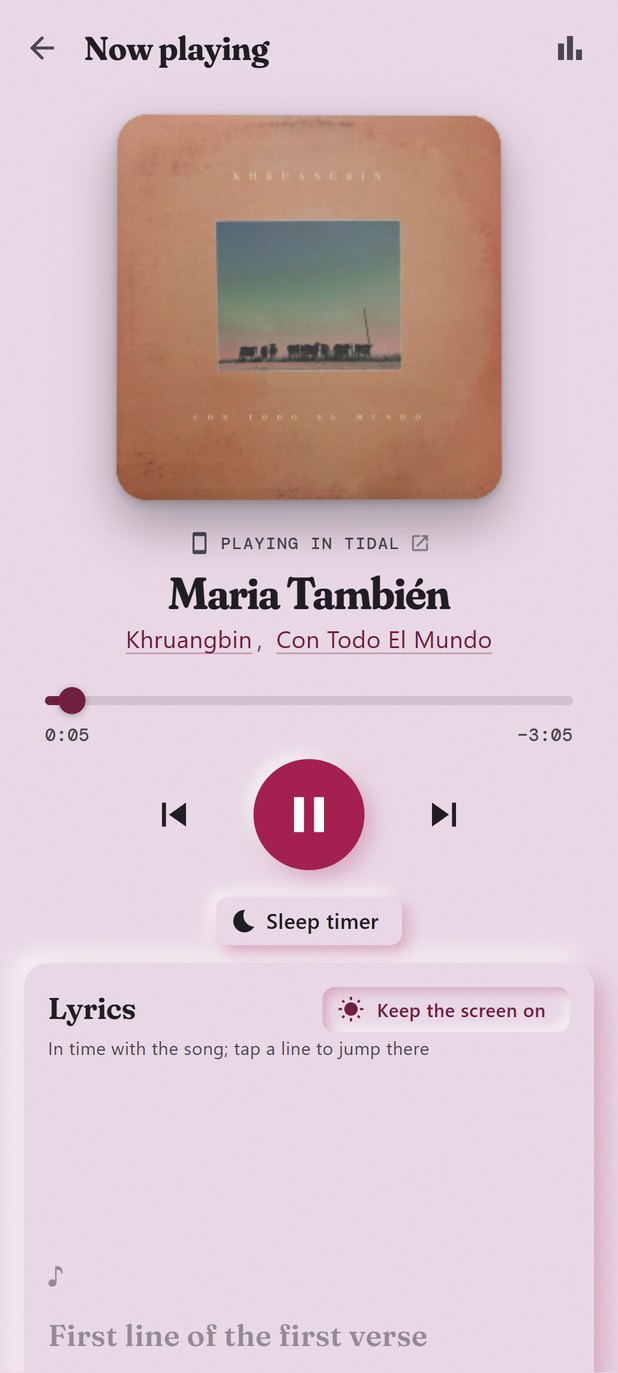
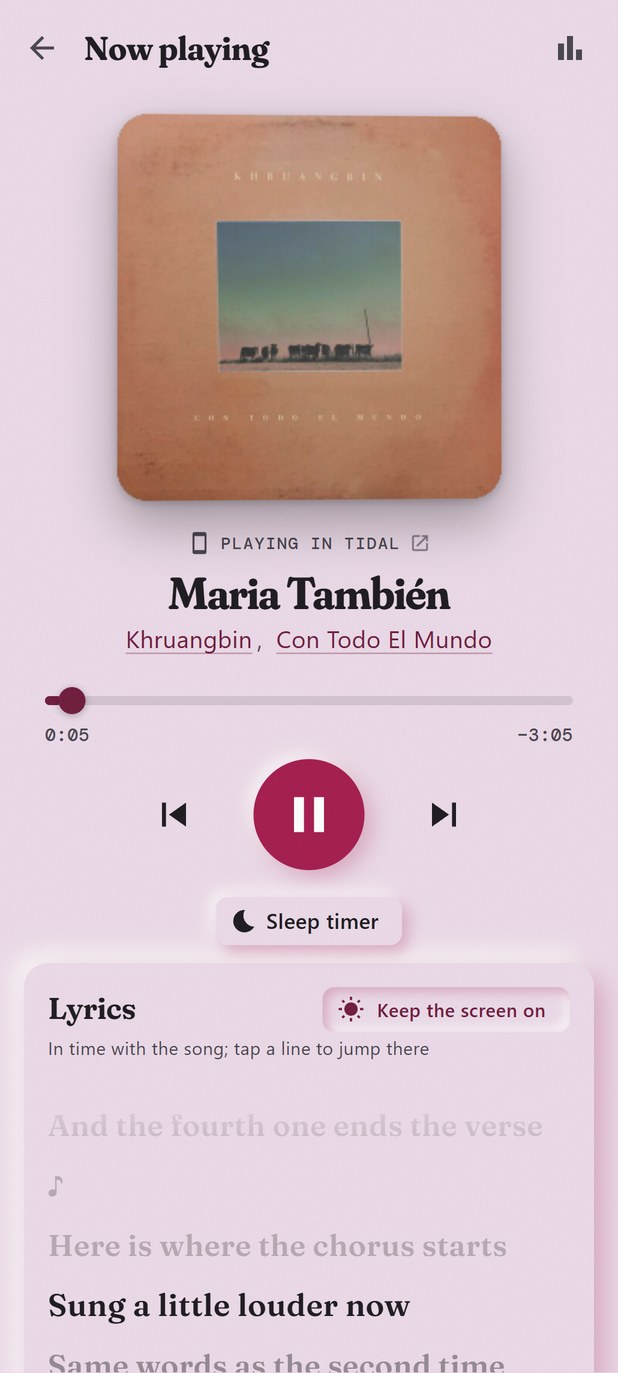
README screenshots with now playing in the bar and its lyrics
Every screenshot shows the bottom bar with the line being sung. The
banner shows a year as the river of artists (2025, where the top eight
make up more than half) in place of Your record, which goes.

Changed region(s): [[0.0615, 0.8871, 0.8301, 1.0], [0.5227, 0.8871, 0.8301, 0.9177], [0.2767, 0.8871, 0.4919, 0.9177]]

diff --git a/README.md b/README.md
@@ -2,7 +2,7 @@
 
 An Android app for your record shelf and everything else you listen to.
 
-![Heavy Rotation: the shelf, a record, your month on a record, an artist and now playing](docs/screenshots/banner.jpg)
+![Heavy Rotation: the shelf, a record, a year as a river of artists, an artist and now playing with its lyrics](docs/screenshots/banner.jpg)
 
 Heavy Rotation shows your [Discogs](https://www.discogs.com) collection as a shelf of covers and
 scrobbles the records you play to [Last.fm](https://www.last.fm). It scrobbles what plays on your
